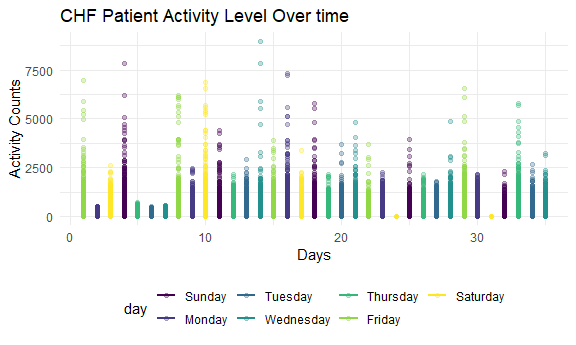
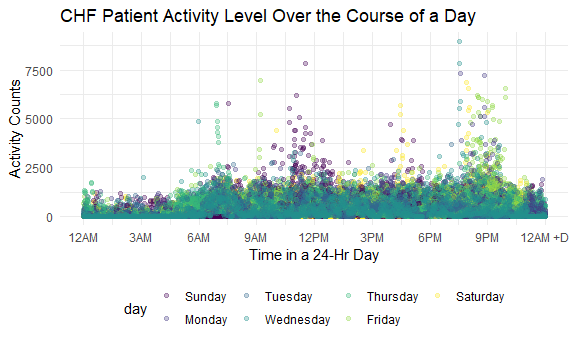
added interpretations, added code chunk hides, etc, changed minor titles

diff --git a/fall22_p8105_hw3_JSM2182.md b/fall22_p8105_hw3_JSM2182.md
@@ -2,27 +2,9 @@ Homework 3
 ================
 Jennifer Mizhquiri
 
-    ## ── Attaching packages ─────────────────────────────────────── tidyverse 1.3.2 ──
-    ## ✔ ggplot2 3.3.6      ✔ purrr   0.3.4 
-    ## ✔ tibble  3.1.8      ✔ dplyr   1.0.10
-    ## ✔ tidyr   1.2.0      ✔ stringr 1.4.1 
-    ## ✔ readr   2.1.2      ✔ forcats 0.5.2 
-    ## ── Conflicts ────────────────────────────────────────── tidyverse_conflicts() ──
-    ## ✖ dplyr::filter() masks stats::filter()
-    ## ✖ dplyr::lag()    masks stats::lag()
-
 ## Problem 1
 
 ## Problem 2
-
-    ## Rows: 35 Columns: 1443
-    ## ── Column specification ────────────────────────────────────────────────────────
-    ## Delimiter: ","
-    ## chr    (1): day
-    ## dbl (1442): week, day_id, activity.1, activity.2, activity.3, activity.4, ac...
-    ## 
-    ## ℹ Use `spec()` to retrieve the full column specification for this data.
-    ## ℹ Specify the column types or set `show_col_types = FALSE` to quiet this message.
 
 ``` r
 head(accel_df)
@@ -38,96 +20,14 @@ head(accel_df)
     ## 5     1      1 FALSE   Friday       5           75.0
     ## 6     1      1 FALSE   Friday       6           66.3
 
-The above is a snapshot of accelerometer data collected for a given
-individual diagnosed with CHD.There are 50400 observations. The
-variables in this dataset contain information on the sequential days
-(from days 1 to 35 and for each minute within each day). The
-accelerometer tracks activity which it quantifies as activity counts.
+*About the dataset* The above is a snapshot of accelerometer data
+collected for a given individual diagnosed with CHD.There are 50400
+observations. The variables in this dataset contain information on the
+sequential days (from days 1 to 35 and for each minute within each day),
+as well as the day of the week. The accelerometer tracks activity which
+it quantifies as activity counts.
 
-*officehours* how to fix axis, coding, because weekend should be a
-logical variable so i changed that but geom_path makes it look like
-something taht is not continuous per se… what would be the best way to
-mayube aartificially change the axis. using geom_path and weekend as a
-continuous variable would have also been interesting
-
-``` r
-accel_df %>% 
-  group_by(
-    day) %>%
-  mutate(
-    total_activity_per_day = sum(activity_count, na.rm = TRUE)
-  ) %>% 
-  ggplot(
-    aes(x = day_id, y = total_activity_per_day, color = weekend)) + geom_point() + geom_smooth() + 
-  labs(
-    x = "Days",
-    y = "Total Activity Per Day",
-    title = "CHF Patient Activity Level Varies by Weekend and Stable by Weekday",
-    caption = "Data came from five weeks of accelerometer data collected on a 63 year-old male with BMI 25, who was admitted to the Advanced Cardiac Care Center of Columbia University Medical Center and diagnosed with congestive heart failure (CHF)"
-  )
-```
-
-``` r
-accel_df %>% 
-  group_by(day, week) %>%
-  summarize(
-    total_activity_per_day = sum(activity_count, na.rm = TRUE)
-  ) %>% #observations
-  knitr::kable(digits = 2)
-```
-
-    ## `summarise()` has grouped output by 'day'. You can override using the `.groups`
-    ## argument.
-
-| day       | week | total_activity_per_day |
-|:----------|-----:|-----------------------:|
-| Sunday    |    1 |              631105.00 |
-| Sunday    |    2 |              422018.00 |
-| Sunday    |    3 |              467052.00 |
-| Sunday    |    4 |              260617.00 |
-| Sunday    |    5 |              138421.00 |
-| Monday    |    1 |               78828.07 |
-| Monday    |    2 |              295431.00 |
-| Monday    |    3 |              685910.00 |
-| Monday    |    4 |              409450.00 |
-| Monday    |    5 |              389080.00 |
-| Tuesday   |    1 |              307094.24 |
-| Tuesday   |    2 |              423245.00 |
-| Tuesday   |    3 |              381507.00 |
-| Tuesday   |    4 |              319568.00 |
-| Tuesday   |    5 |              367824.00 |
-| Wednesday |    1 |              340115.01 |
-| Wednesday |    2 |              440962.00 |
-| Wednesday |    3 |              468869.00 |
-| Wednesday |    4 |              434460.00 |
-| Wednesday |    5 |              445366.00 |
-| Thursday  |    1 |              355923.64 |
-| Thursday  |    2 |              474048.00 |
-| Thursday  |    3 |              371230.00 |
-| Thursday  |    4 |              340291.00 |
-| Thursday  |    5 |              549658.00 |
-| Friday    |    1 |              480542.62 |
-| Friday    |    2 |              568839.00 |
-| Friday    |    3 |              467420.00 |
-| Friday    |    4 |              154049.00 |
-| Friday    |    5 |              620860.00 |
-| Saturday  |    1 |              376254.00 |
-| Saturday  |    2 |              607175.00 |
-| Saturday  |    3 |              382928.00 |
-| Saturday  |    4 |                1440.00 |
-| Saturday  |    5 |                1440.00 |
-
-``` r
-accel_df %>% 
-  group_by(day, week) %>%
-  summarize(
-    total_activity_per_day = sum(activity_count, na.rm = TRUE)
-  ) %>% 
-  pivot_wider(
-    names_from = "day", 
-    values_from = "total_activity_per_day") %>% 
-  knitr::kable(digits = 2)
-```
+*Trends from aggregating total activity over the day*
 
     ## `summarise()` has grouped output by 'day'. You can override using the `.groups`
     ## argument.
@@ -153,31 +53,21 @@ dependent on participant adherence to wearing an accelerometer 24 hours
 a day, this data is a best guess snapshot. To better inspect the
 missings a different visual format would be helpful.
 
-``` r
-accel_df %>% 
-  group_by(min_24h, day) %>% 
-  ggplot(aes(x = min_24h, y = activity_count, color = day)) + 
-  geom_point(alpha = .3) +
-  labs(
-    x = "Minutes in a Day",
-    y = "Activity Counts",
-    title = "CHF Patient Activity Level Over the Course of a Day") + 
-  scale_x_continuous(
-    breaks = c(0, 180, 360, 540, 720, 900, 1080, 1260, 1440), 
-    labels = c("12AM", "3AM", "6AM", "9AM", "12PM", "3PM", "6PM","9PM", "12AM +D"),
-    limits = c(0, 1440) 
-    )
-```
+*24-hour activity time courses for a given day of the week*
 
-<img src="fall22_p8105_hw3_JSM2182_files/figure-gfm/unnamed-chunk-5-1.png" width="90%" />
+<img src="fall22_p8105_hw3_JSM2182_files/figure-gfm/unnamed-chunk-4-1.png" width="90%" />
 
-The patient’s activity level/score did not exceed 2500 per minute across
-most days. The patient was more active after 6AM overall, and tended to
-break the 2500 threshold particularly around or before 12PM, or around
-4PM or around 9PM.These were more likely to occur on Sundays, Saturdays,
+Of note, the data was originally collected in minutes per day but were
+relabeled with time corresponding to 24-hr time period for the reader’s
+ease. The patient’s activity level/score did not exceed 2500 per minute
+across most days. The patient was more active after 6AM overall, and
+tended to break the 2500 threshold particularly around or around 12PM;
+4PM; 9PM. These were more likely to occur on Sundays, Saturdays,
 Wednesdays, and Fridays.
 
 ## Problem 3
+
+*Step 1: Explore the Data*
 
 ``` r
 ny_noaa %>% 
@@ -187,55 +77,37 @@ ny_noaa %>%
   summary()
 ```
 
-    ##       id                 date                 prcp               snow       
-    ##  Length:2595176     Min.   :1981-01-01   Min.   :    0.00   Min.   :  -13   
-    ##  Class :character   1st Qu.:1988-11-29   1st Qu.:    0.00   1st Qu.:    0   
-    ##  Mode  :character   Median :1997-01-21   Median :    0.00   Median :    0   
-    ##                     Mean   :1997-01-01   Mean   :   29.82   Mean   :    5   
-    ##                     3rd Qu.:2005-09-01   3rd Qu.:   23.00   3rd Qu.:    0   
-    ##                     Max.   :2010-12-31   Max.   :22860.00   Max.   :10160   
-    ##                                          NA's   :145838     NA's   :381221  
-    ##       snwd             tmax              tmin        
-    ##  Min.   :   0.0   Min.   :-389.0    Min.   :-594.0   
-    ##  1st Qu.:   0.0   1st Qu.:  50.0    1st Qu.: -39.0   
-    ##  Median :   0.0   Median : 150.0    Median :  33.0   
-    ##  Mean   :  37.3   Mean   : 139.8    Mean   :  30.3   
-    ##  3rd Qu.:   0.0   3rd Qu.: 233.0    3rd Qu.: 111.0   
-    ##  Max.   :9195.0   Max.   : 600.0    Max.   : 600.0   
-    ##  NA's   :591786   NA's   :1134358   NA's   :1134420
-
 There are 2595176 observations and 7 variables. Specifically, there is
-weather data, such as the ID, the date, the precipitation, snow, snow
-and wind, max temperature and minimum temperature.In terms of missing
-data, snow depth (`snwd`) has the largest proportion of missing data
-relative to snow, precipitation, tmax, and tmin. There are 591786
-missing values for snwd, 381221 missing values for snow, 145838 missing
-values for precipitation, 1134358 missing values for maximum
-temperature, and 1134420 missing values for minimum temperature.
+weather data, such as the ID, the date, the precipitation (`prcp`), snow
+(`snow`), snow depth (`snwd`), max temperature (`tmax`) and minimum
+temperature (`tmin`).In terms of missing data, snow depth has the
+largest proportion of missing data relative to snow, precipitation,
+tmax, and tmin. There are 591786 missing values for snwd, 381221 missing
+values for snow, 145838 missing values for precipitation, 1134358
+missing values for maximum temperature, and 1134420 missing values for
+minimum temperature. Of note the original units for precipitation is in
+tenths of mm, snowfall and snow depth are in millimeters, and
+temeprature is in tenths of degrees Celsius (C). These units will be
+changed in the following step.
 
-For snowfall, what are the most commonly observed values?
+*Step 2: Clean the Data*
 
-``` r
-ny_noaa_tidy %>% 
-  count(
-    snow) %>% 
-  arrange(desc(n)) 
-```
+-   Snow, Snow depth, and precipitation is changed to cm
+-   Temperature is changed to degrees C
 
-    ## # A tibble: 282 × 2
-    ##     snow       n
-    ##    <dbl>   <int>
-    ##  1     0 2008508
-    ##  2    NA  381221
-    ##  3   250   31022
-    ##  4   130   23095
-    ##  5   510   18274
-    ##  6   760   10173
-    ##  7    80    9962
-    ##  8    50    9748
-    ##  9   380    9197
-    ## 10    30    8790
-    ## # … with 272 more rows
+<!-- -->
+
+    ## # A tibble: 6 × 9
+    ##   id           year month      day  prcp  snow  snwd  tmax  tmin
+    ##   <chr>       <int> <fct>    <int> <dbl> <dbl> <dbl> <dbl> <dbl>
+    ## 1 US1NYAB0001  2007 November     1    NA    NA    NA    NA    NA
+    ## 2 US1NYAB0001  2007 November     2    NA    NA    NA    NA    NA
+    ## 3 US1NYAB0001  2007 November     3    NA    NA    NA    NA    NA
+    ## 4 US1NYAB0001  2007 November     4    NA    NA    NA    NA    NA
+    ## 5 US1NYAB0001  2007 November     5    NA    NA    NA    NA    NA
+    ## 6 US1NYAB0001  2007 November     6    NA    NA    NA    NA    NA
+
+*Step 3: For snowfall, what are the most commonly observed values?* \`
 
 ``` r
 ny_noaa_tidy %>% 
@@ -245,70 +117,26 @@ ny_noaa_tidy %>%
   arrange(desc(n_obs))
 ```
 
-    ## # A tibble: 282 × 2
-    ##     snow   n_obs
-    ##    <dbl>   <int>
-    ##  1     0 2008508
-    ##  2    NA  381221
-    ##  3   250   31022
-    ##  4   130   23095
-    ##  5   510   18274
-    ##  6   760   10173
-    ##  7    80    9962
-    ##  8    50    9748
-    ##  9   380    9197
-    ## 10    30    8790
-    ## # … with 272 more rows
+-   The most commonly observed value of snow is 0cm (also: 0 mm in the
+    original units)
 
--   The most commonly observed value of snow is 0cm (also: 0 mm)
+*Step 4: Make a two-panel plot showing the average max temperature in
+January and in July in each station across years.*
 
-Make a two-panel plot showing the average max temperature in January and
-in July in each station across years. Is there any observable /
-interpretable structure? Any outliers?
+<img src="fall22_p8105_hw3_JSM2182_files/figure-gfm/unnamed-chunk-9-1.png" width="90%" />
 
-``` r
-ny_noaa_tidy %>%
-    filter(
-    month %in% c("January","July")) %>% 
-  group_by(month, year, id) %>% 
-  summarize(
-    tmax_mean = mean(tmax, na.rm = TRUE)
-  ) %>% 
-  ggplot(aes(x = year, y = tmax_mean, group = id, color = tmax_mean)) +
-  scale_x_continuous(
-    breaks = c(1980, 1990, 2000, 2010),
-    labels = c("1980", "1990", "2000", "2010")) +
-  geom_line(alpha = 0.5) +
-  labs(
-    x = "Years",
-    y = "Maximum Daily Temp (C)",
-    title = "Line Graphs of daily temp extremes in June and July",
-    caption = "Data came from the Rnooa package",
-    color = "Max Temp (C)"
-    ) +
-  theme(axis.text.x = element_text(angle = 90, vjust = 0.5, hjust = 1)) + 
-  theme(legend.position = "right") + 
-  facet_grid(. ~ month) 
-```
+-   Overall, on average each station could be said to be in lower
+    temperatures (as measured in Celsius) in January and have higher on
+    average temperatures in July. Broadly, there is a range in January
+    that may be observed varying from -1000 C to 1000 C and a range of
+    2000 C to 3000 C in July. These trends and ranges are apparently
+    consistent from 1980 to 2020. There are some outliers in January
+    (i.e. circa 1980 and 2000) but they are not as extreme. In July
+    however, the outliers are more dramatic, particularly sometime in
+    the late 1980s.
 
-    ## `summarise()` has grouped output by 'month', 'year'. You can override using the
-    ## `.groups` argument.
+*Step 5: Make a two-panel plot showing (i) tmax vs tmin for the full
+dataset and (ii) make a plot showing the distribution of snowfall values
+greater than 0 and less than 100 separately by year*
 
-    ## Warning: Removed 5640 row(s) containing missing values (geom_path).
-
-<img src="fall22_p8105_hw3_JSM2182_files/figure-gfm/unnamed-chunk-10-1.png" width="90%" />
-
-*Trends observed* In general, m
-
-Make a two-panel plot showing (i) tmax vs tmin for the full dataset
-(note that a scatterplot may not be the best option); *office hours*
-what is group = doing how do i differentiate the different Ids
-
-and (ii) make a plot showing the distribution of snowfall values greater
-than 0 and less than 100 separately by year
-
-``` r
-snow_plot / temp_noaa_plot 
-```
-
-<img src="fall22_p8105_hw3_JSM2182_files/figure-gfm/unnamed-chunk-13-1.png" width="90%" />
+<img src="fall22_p8105_hw3_JSM2182_files/figure-gfm/unnamed-chunk-12-1.png" width="90%" />
